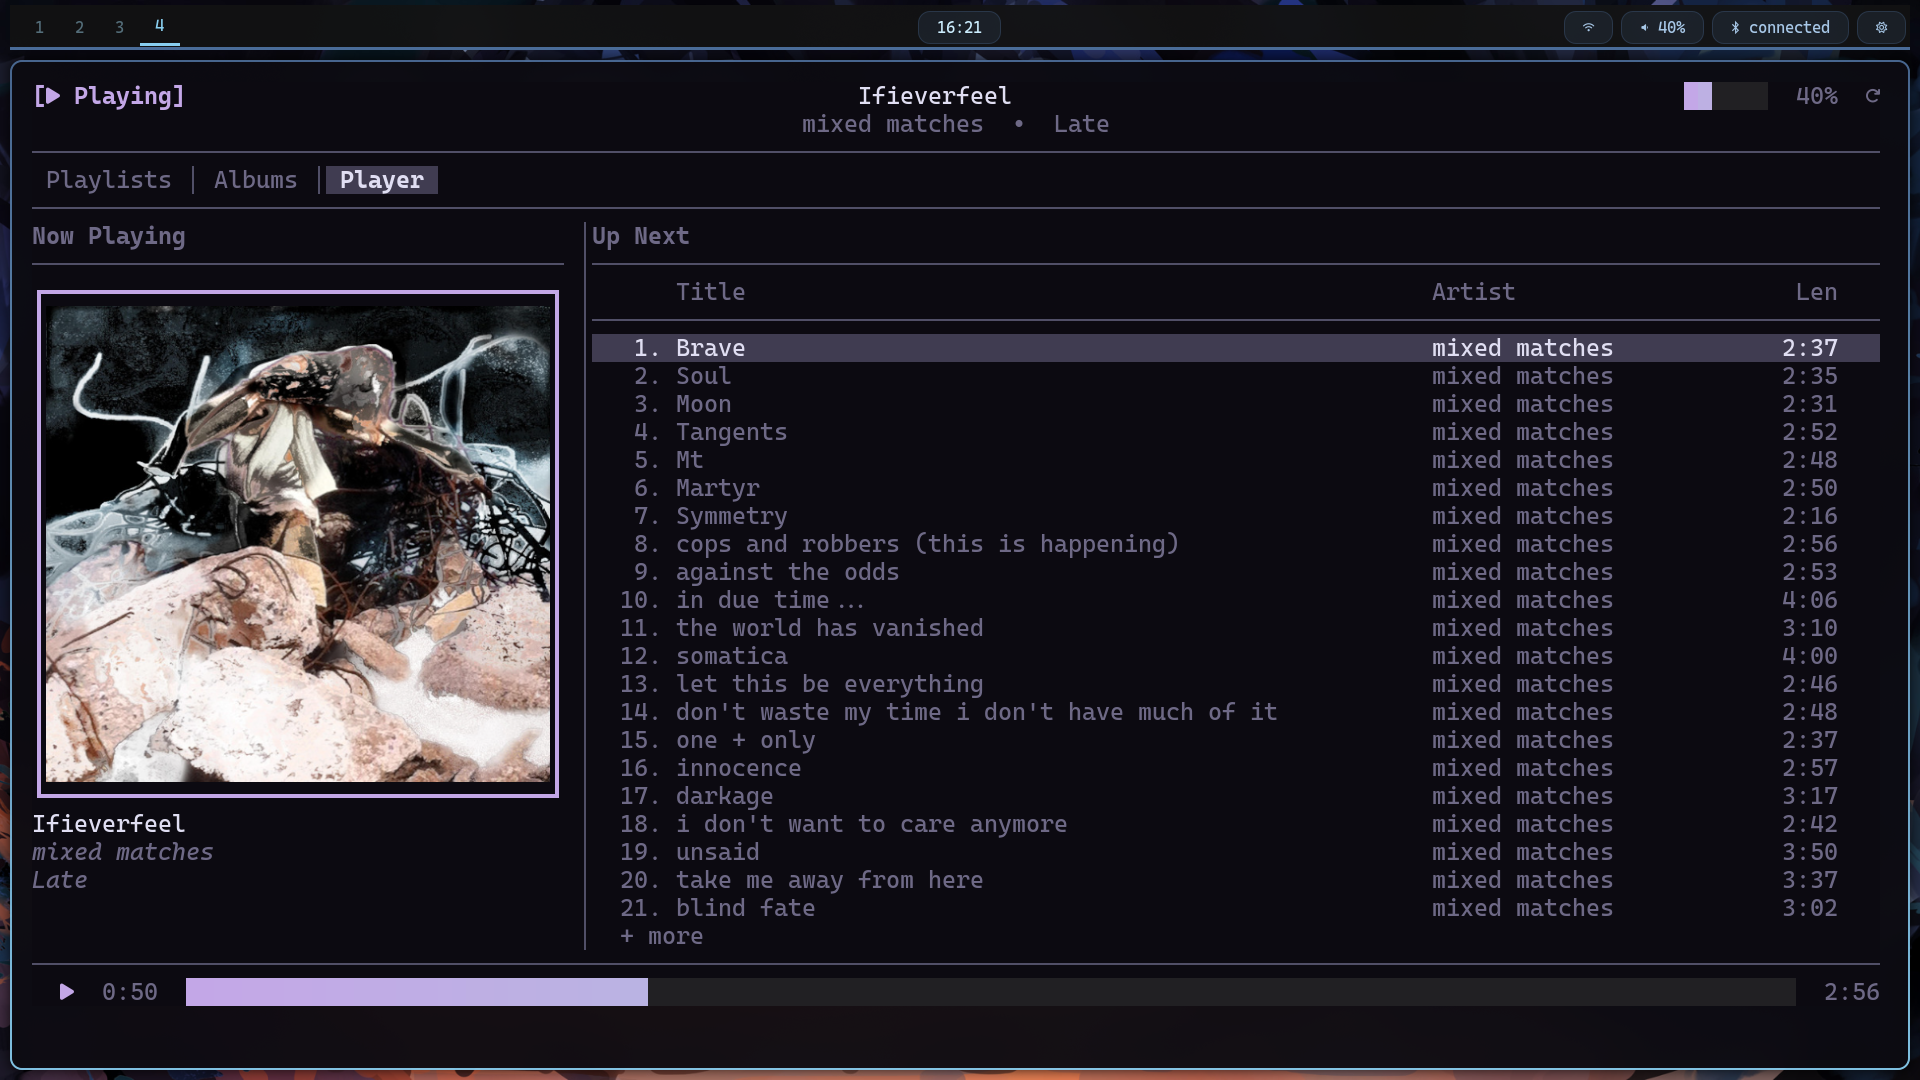
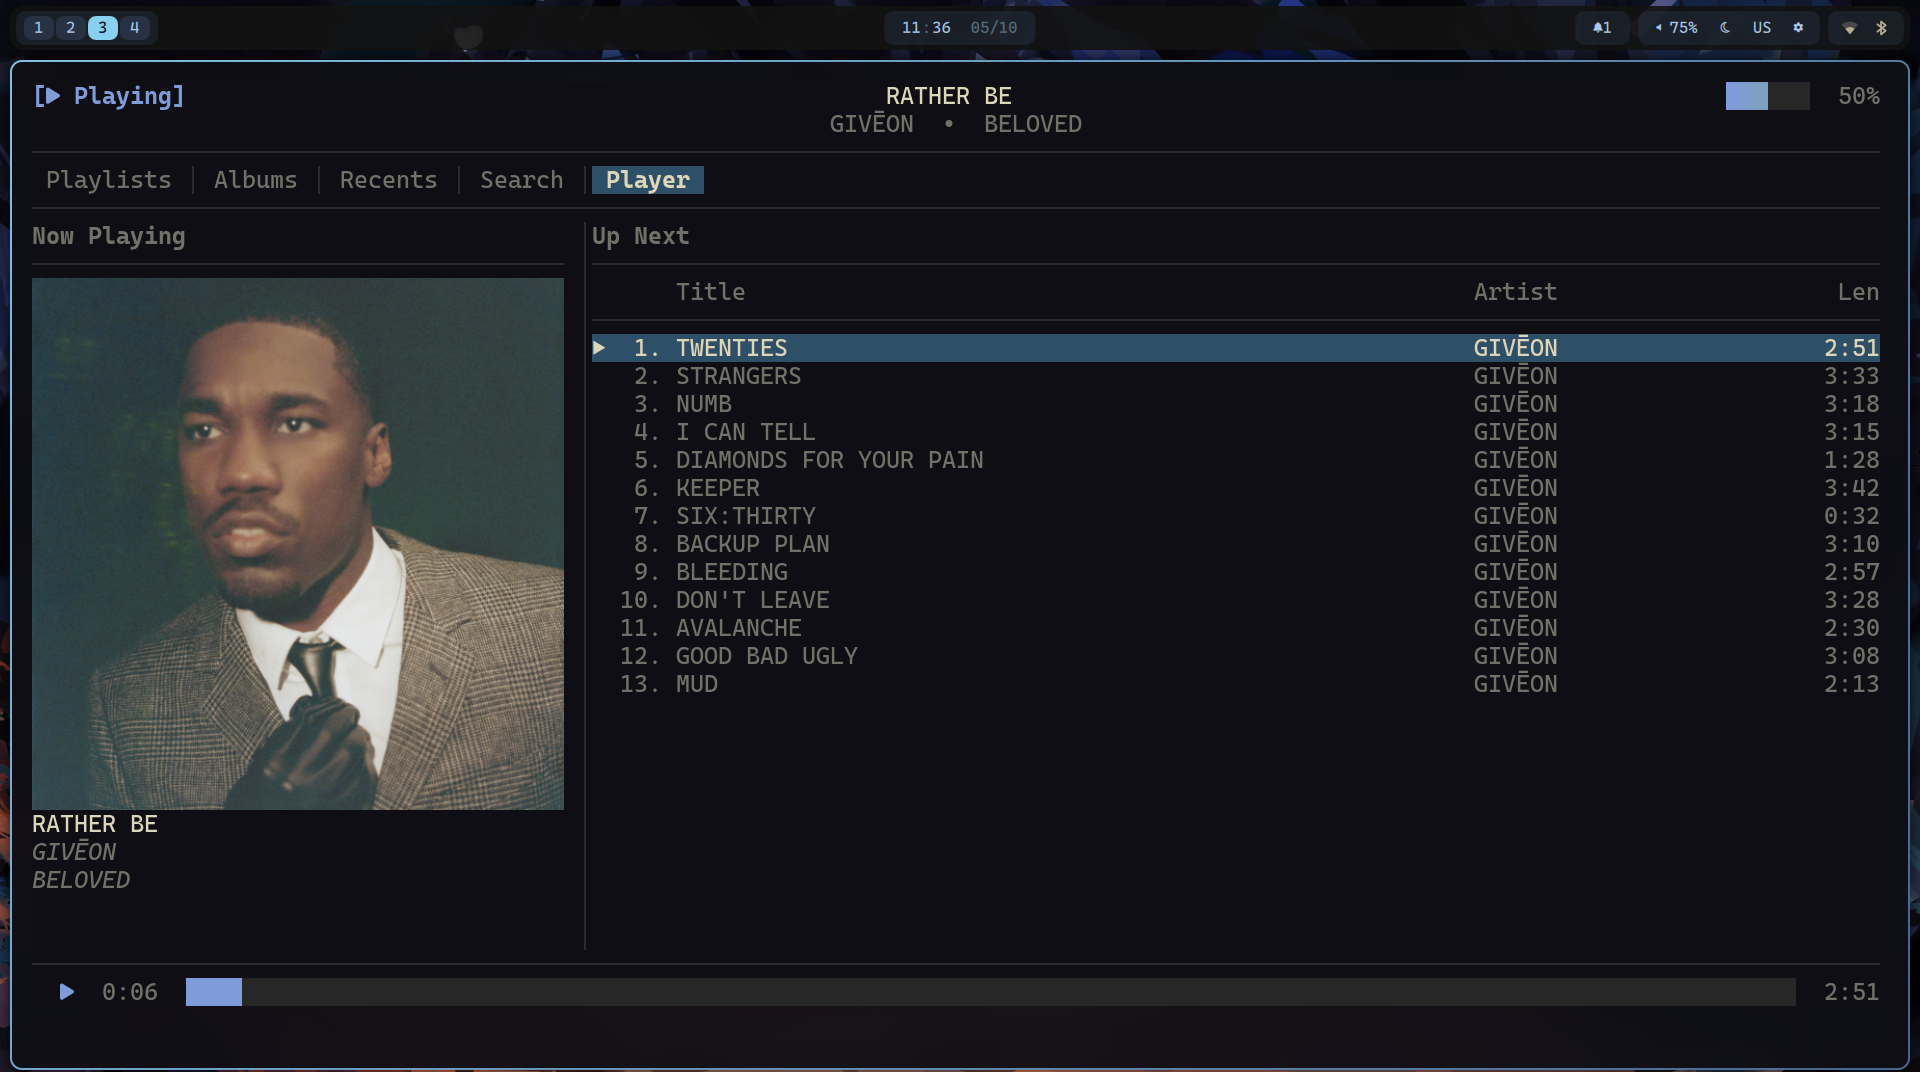
docs: updated readme and prints

diff --git a/README.md b/README.md
@@ -48,8 +48,9 @@ On Linux, missing ALSA/FLAC/Ogg/Vorbis libraries are detected with `ldd` and the
 
 ![Orpheus Screenshot](assets/orpheus_playlist.png)
 ![Orpheus Screenshot 2](assets/orpheus_albums.png)
-![Orpheus Screenshot 3](assets/orpheus_player.png)
-
+![Orpheus Screenshot 3](assets/orpheus_recents.png)
+![Orpheus Screenshot 4](assets/orpheus_search.png)
+![Orpheus Screenshot 6](assets/orpheus_player.png)
 ### Features
 
 | Feature | Description | Keybind |
